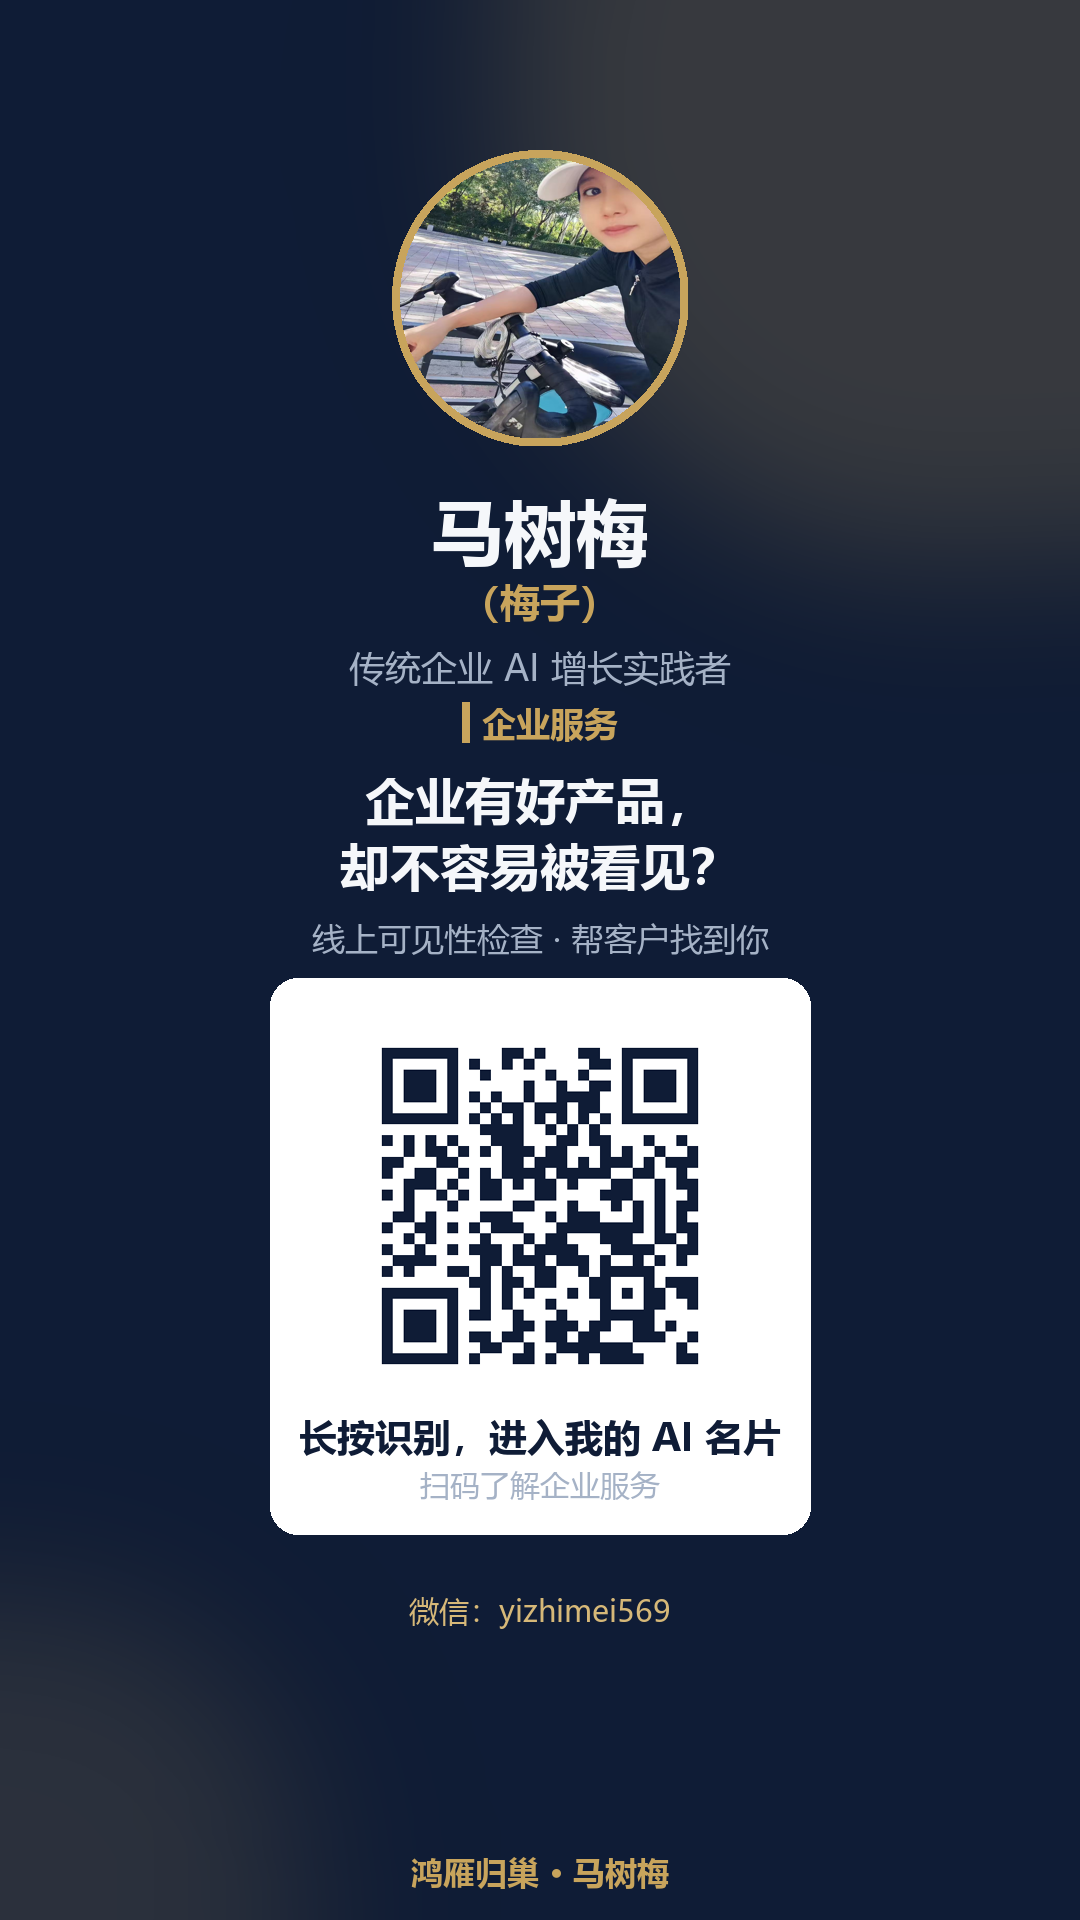
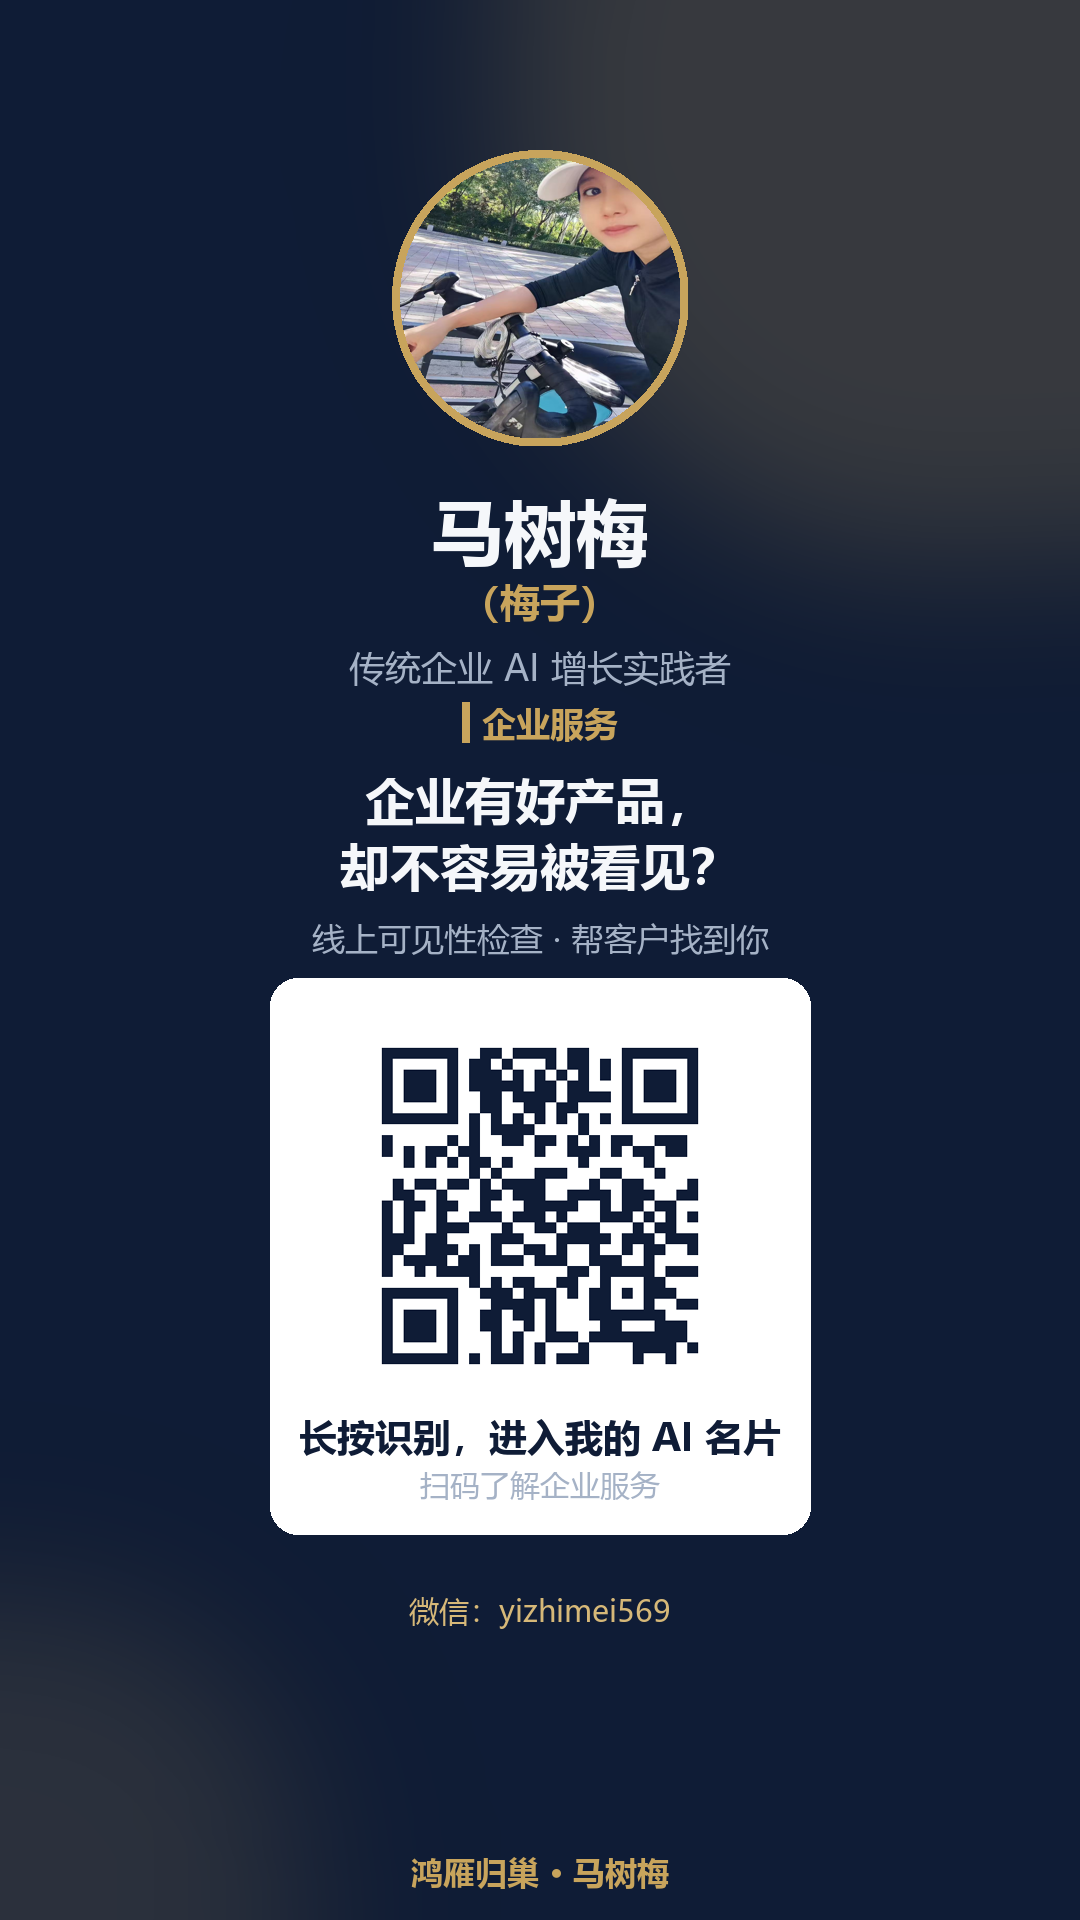
海报/二维码改用 ?v=2 防微信缓存；名片主页加 no-cache 声明

Changed region(s): [[0.3361, 0.5312, 0.6722, 0.7188]]

diff --git a/index.html b/index.html
@@ -3,6 +3,9 @@
 <head data-page-node-id="0ndO7Y2XuuHPV51wwd2sdr">
   <meta charset="UTF-8" data-page-node-id="h4JKLyMxuhetWujb8gUISq" />
   <meta name="viewport" content="width=device-width, initial-scale=1.0, viewport-fit=cover" data-page-node-id="8LgTY4ZvCI5adKGbImrklZ" />
+  <meta http-equiv="Cache-Control" content="no-cache, no-store, must-revalidate" />
+  <meta http-equiv="Pragma" content="no-cache" />
+  <meta http-equiv="Expires" content="0" />
   <title>马树梅 · 鸿雁归巢 | 经营自己，也经营企业</title>
   <meta name="description" content="马树梅，有互联网创业经验的 AI 时代实践者。帮助传统企业梳理线上展示与获客，也分享长期运动与自我管理的生活实践。经营自己，也经营企业。" data-page-node-id="avkEorRocm6tJvnLm0BdSn" />
   <link rel="stylesheet" href="css/style.css" data-page-node-id="mt0FwwA2qFtHi4ZFo6vmbF" />

diff --git a/poster.py b/poster.py
@@ -8,7 +8,7 @@ from PIL import Image, ImageDraw, ImageFilter, ImageFont
 import qrcode
 
 # ============ 可配置项（改这里即可重生成）============
-CARD_URL = "https://mashumei.github.io/"     # GitHub 用户页（仓库名须为 mashumei.github.io）
+CARD_URL = "https://mashumei.github.io/?v=2"  # ?v=2 防微信缓存旧卡片页；改版时升 v=3 即可
 AVATAR   = "assets/portrait.jpg"
 OUT      = "poster.png"
 

diff --git a/make_qr.py b/make_qr.py
@@ -3,7 +3,7 @@
 import qrcode
 from PIL import Image, ImageDraw, ImageFont
 
-URL = "https://mashumei.github.io/"   # ← 与 poster.py 的 CARD_URL 保持一致
+URL = "https://mashumei.github.io/?v=2"   # ← 与 poster.py 的 CARD_URL 保持一致（?v=2 防微信缓存）
 
 qr = qrcode.QRCode(box_size=12, border=4,
                    error_correction=qrcode.constants.ERROR_CORRECT_M)

diff --git a/batch_posters.py b/batch_posters.py
@@ -8,7 +8,7 @@
 from PIL import Image, ImageDraw, ImageFilter, ImageFont
 import qrcode, os
 
-CARD_URL = "https://mashumei.github.io/"
+CARD_URL = "https://mashumei.github.io/?v=2"
 AVATAR   = "assets/portrait.jpg"
 W, H     = 1080, 1920
 
